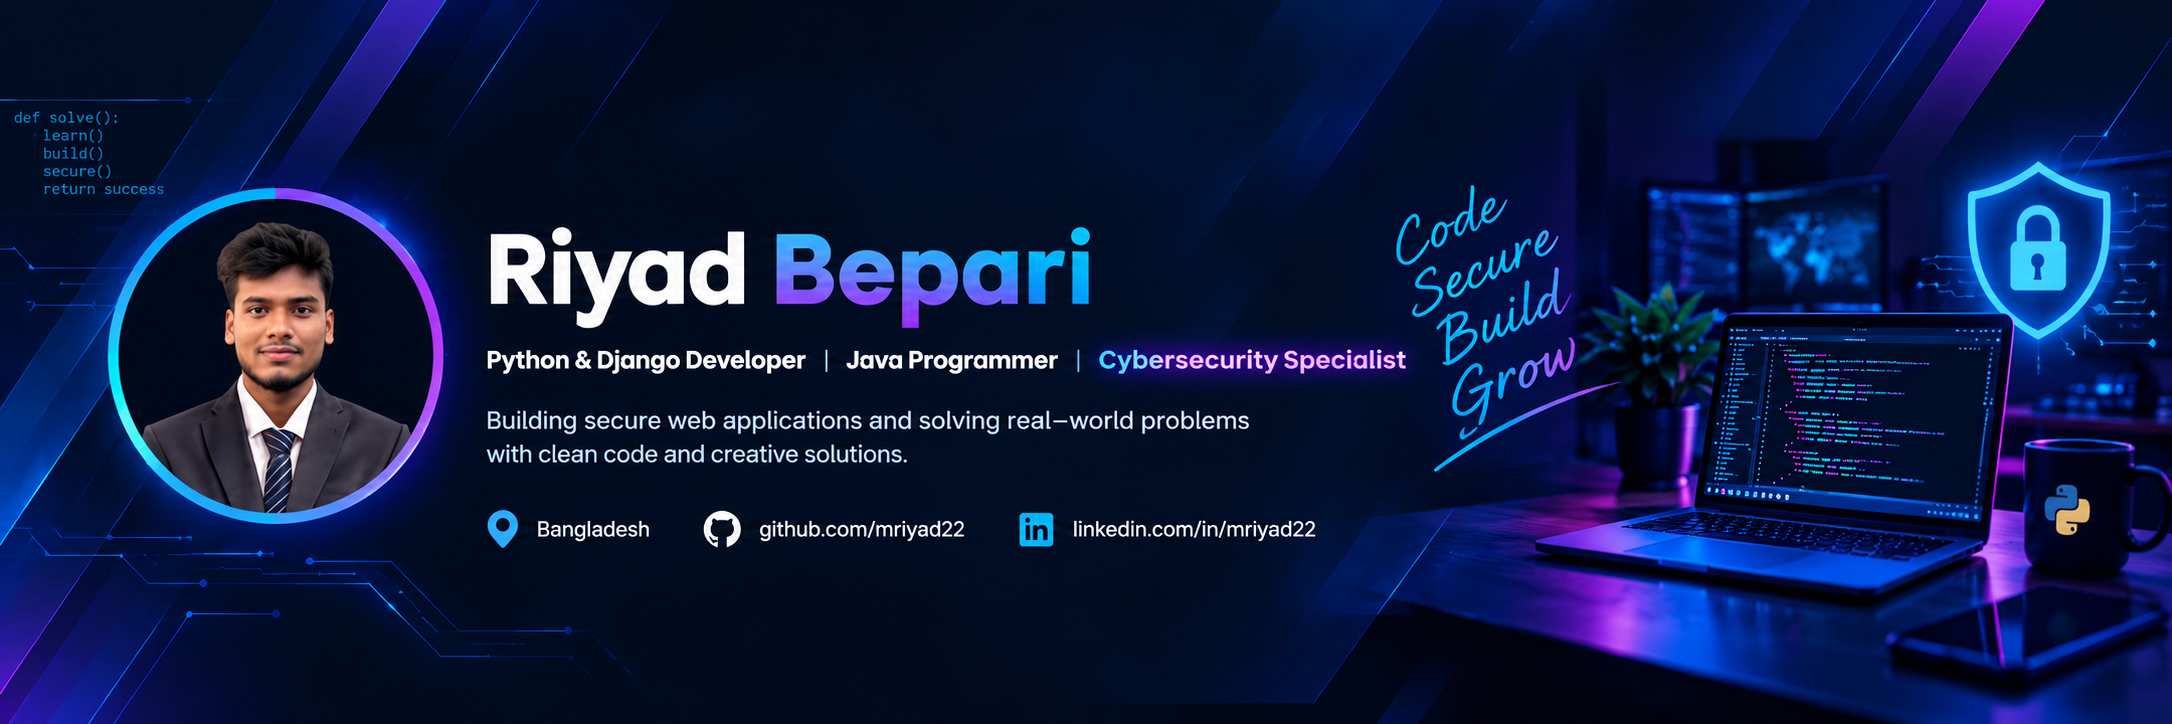
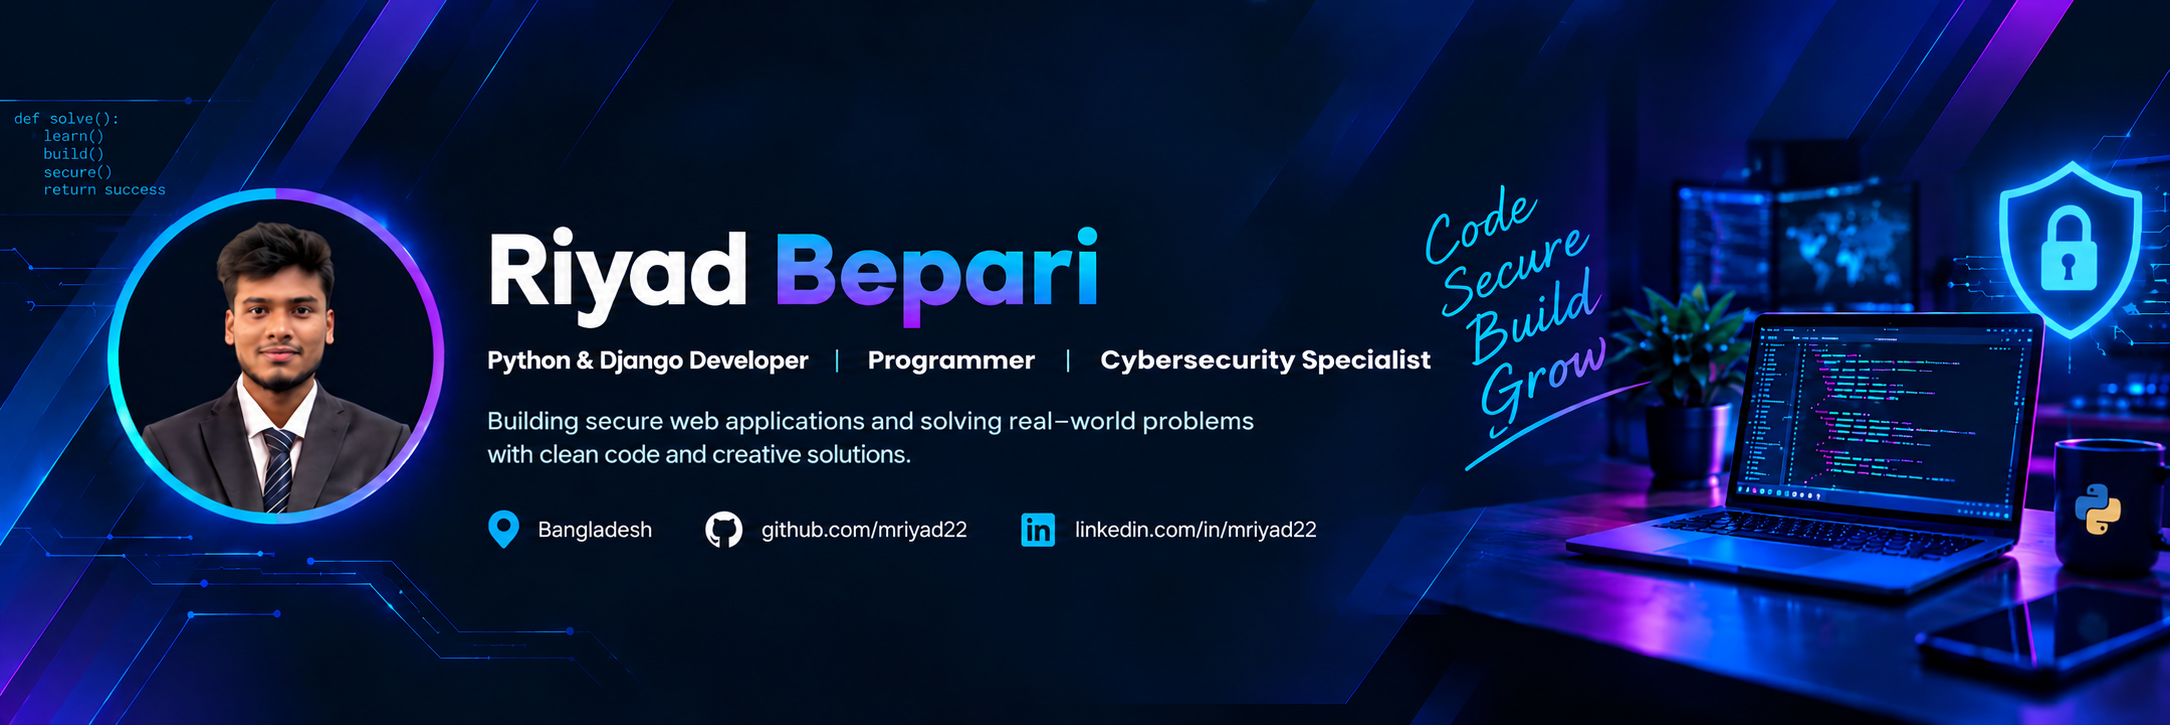
my github profile 2.9

diff --git a/README.md b/README.md
@@ -9,7 +9,7 @@
 </h2>
 
 
-### Python & Django Developer | Java Programmer | Cybersecurity Specialist
+### Python & Django Developer | Programmer | Cybersecurity Specialist
 
 Building secure web applications and solving real-world problems with code.
 
@@ -22,7 +22,7 @@ Building secure web applications and solving real-world problems with code.
 
 ## 👨💻 About Me
 
-I'm a Computer Science & Technology (CST) student at Dhaka Polytechnic Institute, Bangladesh, interested in backend development, software engineering, and cybersecurity.
+I am a Computer Science & Technology (CST) student at Dhaka Govt. Polytechnic Institute. I am highly interested in backend engineering, software engineering, and cybersecurity.
 
 - 🐍 Building robust, scalable, and maintainable web applications
 - ☕ Applying object-oriented programming principles and software design concepts
